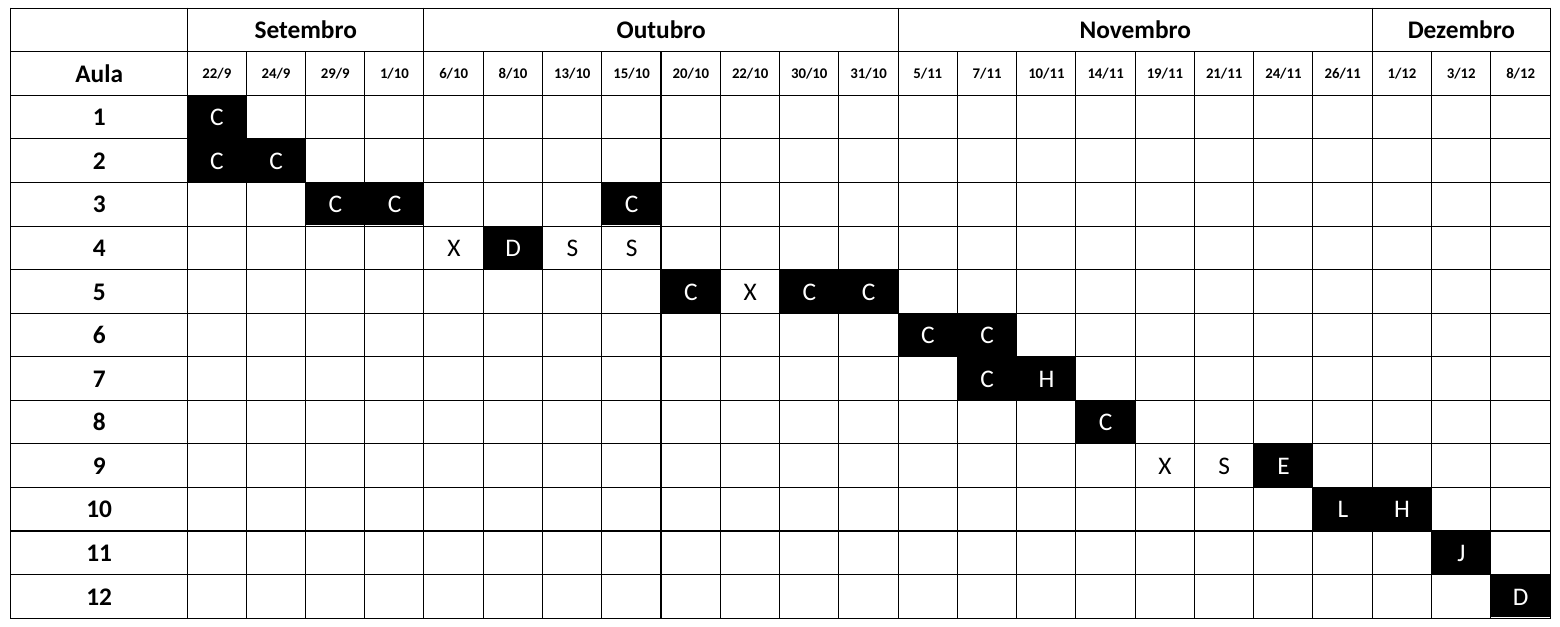
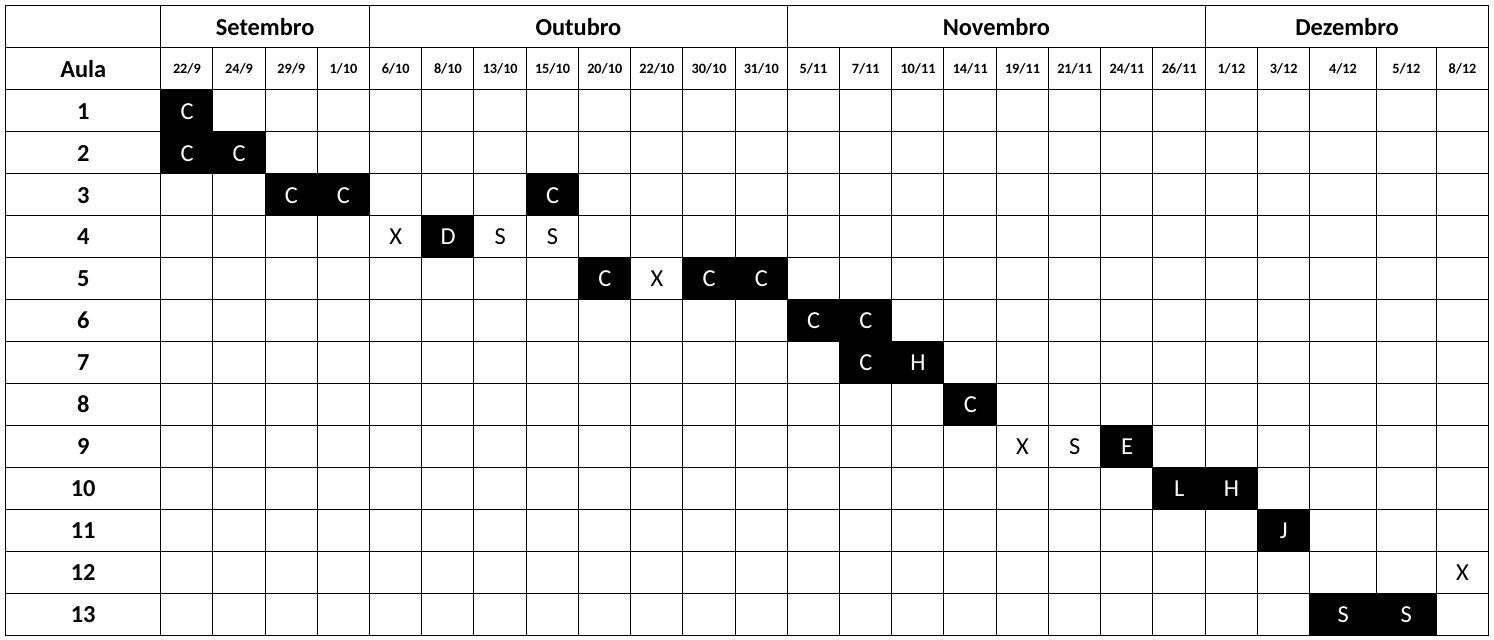
Atualizando cronograma e adicionando aula Sergio

Changed region(s): [[0.0, 0.0, 1.0, 1.0], [0.0616, 0.5152, 0.0924, 0.5455], [0.0616, 0.4545, 0.0924, 0.4848]]

diff --git a/docs/met563-3.md b/docs/met563-3.md
@@ -195,11 +195,19 @@ Site do curso "Introdução à Assimilação de Dados (MET 563-3)" do Programa d
 * Apresentação sobre a assimilação de dados de superfície, seus impactos e desafios
 * Desenvolvimentos realizados no CPTEC
 
-### 12. Reanálises
+~~### 12. Reanálises~~
 
-* O que é reanálise
-* Reanálise como ferramenta de validação de modelos numéricos
-* Desenvolvimentos realizados no CPTEC com reanálise regional
+~~* O que é reanálise~~
+~~* Reanálise como ferramenta de validação de modelos numéricos~~
+~~* Desenvolvimentos realizados no CPTEC com reanálise regional~~
+
+### 13. Aula Extra - O formato BUFR e PREPBUFR
+
+* Conceitos gerais dos formatos BUFR e PREPBUFR e softwares disponíveis
+* Instalação e utilização de ferramentas BUFR
+* Programação e desenvolvimento
+
+  * &#128073; Aula 16 - [PDF](https://cfbastarz.github.io/MET563-3/2025_curso_BUFR-PREPBUFR_PGMET.pdf)
 
 ## Cronograma de Aulas
 
@@ -215,6 +223,7 @@ Site do curso "Introdução à Assimilação de Dados (MET 563-3)" do Programa d
 * H: Aula Helena
 * J: Aula João
 * L: Aula Liviany
+* S: Aula Sérgio
 
 ---
 
